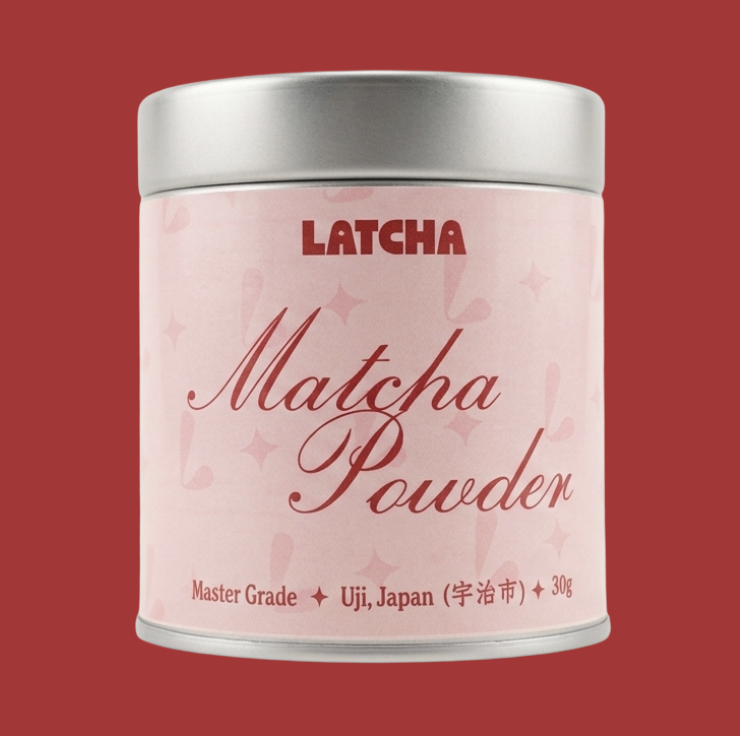
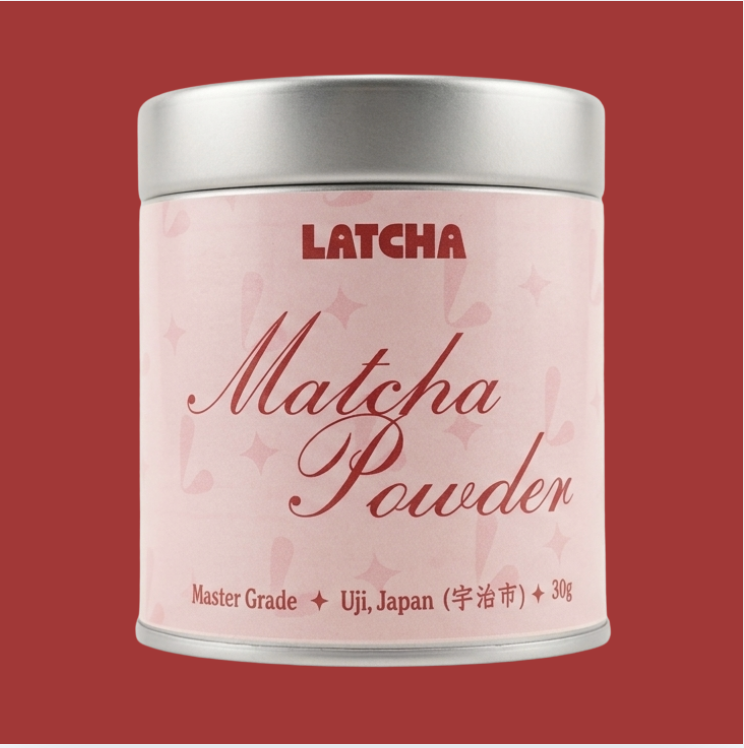
Changes

diff --git a/src/components/ShopSection.tsx b/src/components/ShopSection.tsx
@@ -74,7 +74,7 @@ const ShopSection = () => {
             <img
               src={item.image}
               alt={item.title}
-              className="w-full h-full object-cover min-h-[200px] md:min-h-[280px] max-h-[400px]"
+              className="w-full h-full object-contain min-h-[200px] md:min-h-[280px] max-h-[400px]"
             />
           </motion.div>
         </div>
